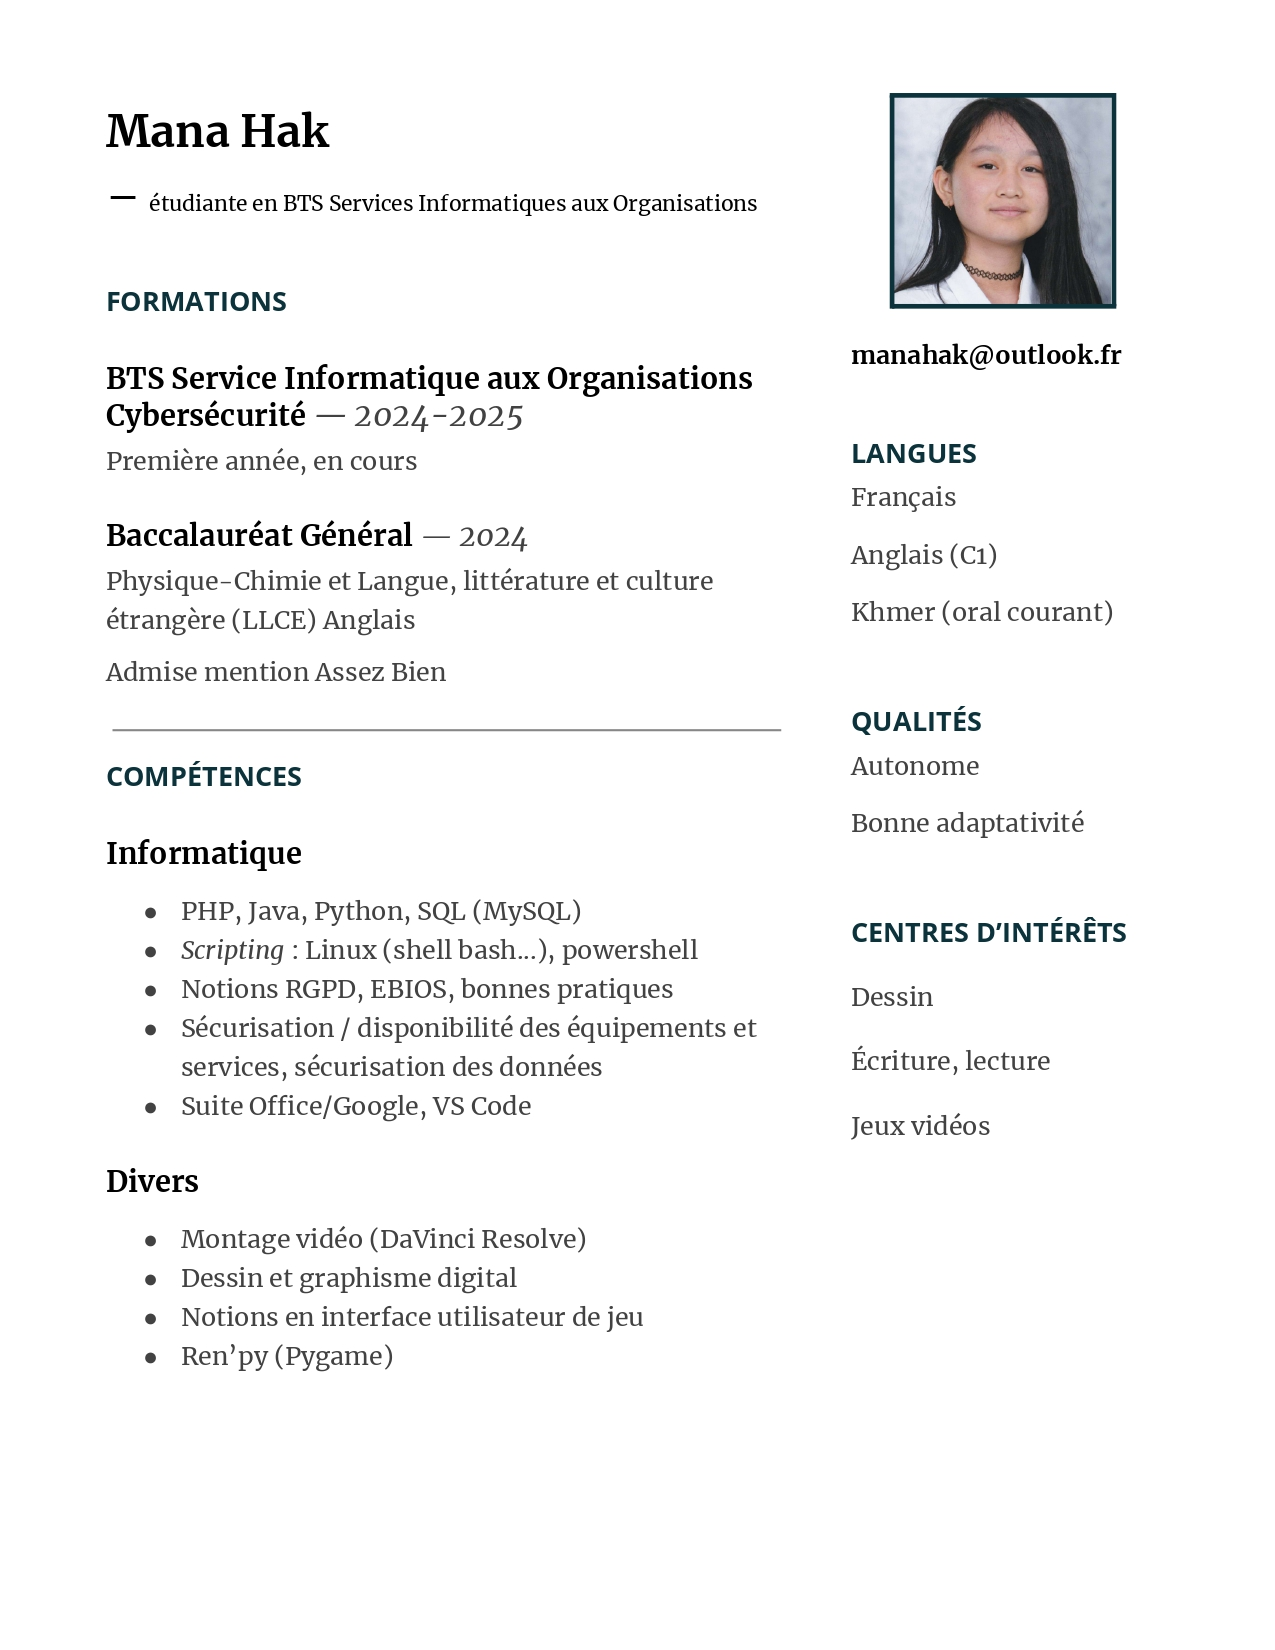
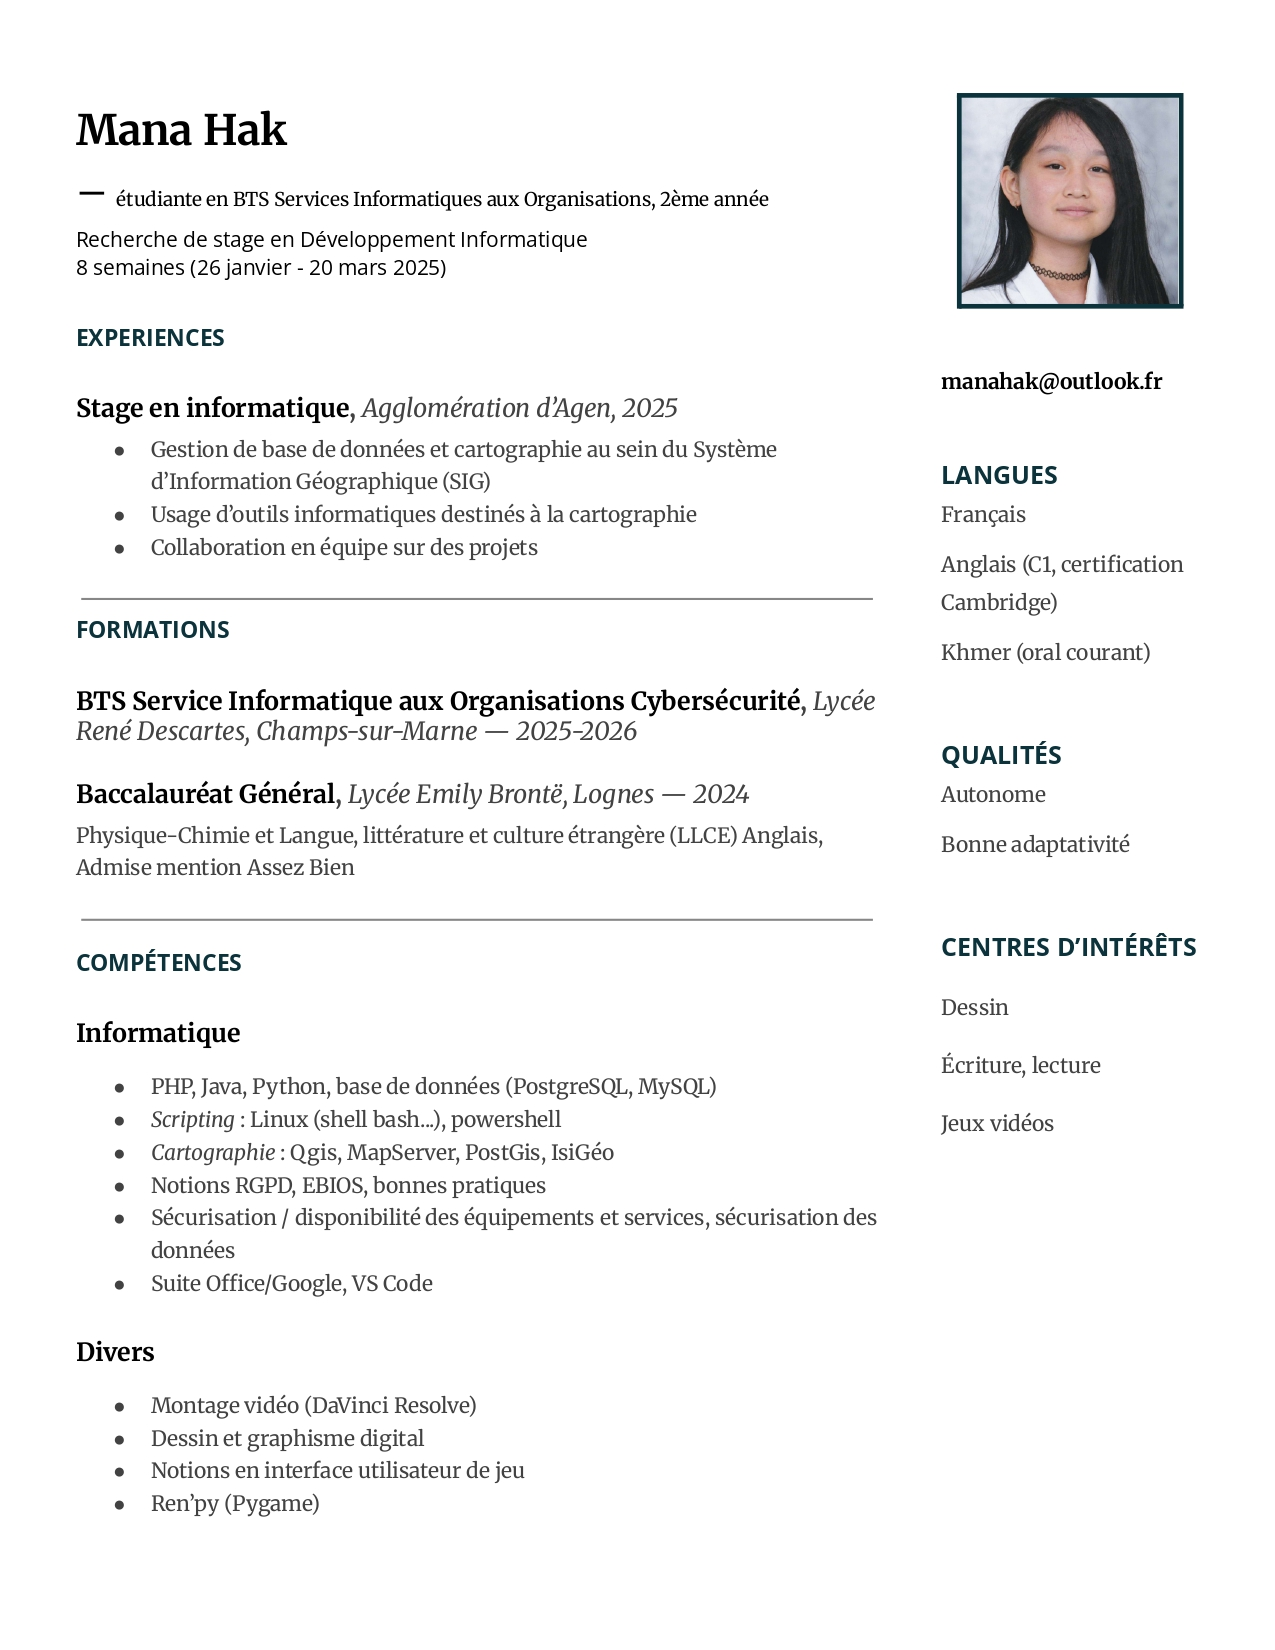
commit

diff --git a/index.html b/index.html
@@ -146,6 +146,17 @@
 		</table>
 	</center>
 
+  <center>
+	<table id="table1">
+		  <tr>
+			<th>
+				<p><img src="compet/excl.png" alt="cybersécurité" width="35"> Cybersécurité <br>(sensibilisation, notions RGPD, bonnes pratiques, sécurisation des applications, tests de failles...)</p>
+        <p><img src="compet/robot.png" alt="ia" width="35"> Usage de l'IA dans le développement<br>(débugging, aide à la documentation, aide à la conception...)</p>
+			</th>
+		  </tr>
+		</table>
+	</center>
+
             <div class="image-box-3">
                 <img src="compet/france.webp" alt="français">
                 <img src="compet/uk.png" alt="anglais">
@@ -201,6 +212,8 @@
             <section id="carte">
               <iframe src="https://www.google.com/maps/embed?pb=!1m18!1m12!1m3!1d2860.1937807196546!2d0.6136170760330828!3d44.203075171081345!2m3!1f0!2f0!3f0!3m2!1i1024!2i768!4f13.1!3m3!1m2!1s0x12abb32406d8cc9b%3A0xd9620364119bc974!2sMairie%20d&#39;Agen!5e0!3m2!1sfr!2sfr!4v1747922331116!5m2!1sfr!2sfr" style="border:0;" allowfullscreen="" loading="lazy" referrerpolicy="no-referrer-when-downgrade"></iframe>
             </section>
+
+            <p>(placeholder)</p>
         </ul>
         </details>
 
@@ -209,17 +222,7 @@
         <details class="collapsible">
         <summary>Stage de 2ème année</summary>
         <ul>
-            <p>J'ai effectué mon stage au sein du service informatique de la collectivité d'Agen, une structure intercommunale regroupant la ville d'Agen et une partie de son aire urbaine. L'agglomération est dirigée par un président élu, actuellement Jean Dionis du Séjour.</p>
-
-            <section id="carte">
-              <iframe src="https://www.google.com/maps/embed?pb=!1m18!1m12!1m3!1d2860.1937807196546!2d0.6136170760330828!3d44.203075171081345!2m3!1f0!2f0!3f0!3m2!1i1024!2i768!4f13.1!3m3!1m2!1s0x12abb32406d8cc9b%3A0xd9620364119bc974!2sMairie%20d&#39;Agen!5e0!3m2!1sfr!2sfr!4v1747922331116!5m2!1sfr!2sfr" style="border:0;" allowfullscreen="" loading="lazy" referrerpolicy="no-referrer-when-downgrade"></iframe>
-            </section>
-			
-			<section id="carte">
-				  <div id="map"></div>
-				  <button class ="button_map" style = "position : relative; left : -40%" onclick = "CreateMarker(44.20219901112438,0.613596432464637)">Géolocaliser le lieu de stage</button> </br>
-				   <button class ="button_map" style = "position : relative; left : -40%" onclick = "CreateMarker(48.84435810976229, 2.585499263256165);CalculDistance()">Calcul de distance</button> 
-				</section>		
+            <p>...</p>
 			
         </ul>
         </details>
@@ -331,8 +334,8 @@
     <div class="cv-content">
         <img src="cv.jpg" alt="cv" class="clickable-img">
         <div class="cv-links">
-        <p><a href="https://drive.google.com/file/d/1s9I2KgxF38ois4Hjwv6djj0rkOJ0WwDG/view?usp=sharing" target="_blank" download>Télécharger mon CV (FR / PDF)</a></p>
-        <p><a href="https://drive.google.com/file/d/1fukurp_TrZOGTnXpLsnYGu3NOQFQIq9c/view?usp=sharing" target="_blank" download>Download my CV (ENG / PDF)</a></p>
+        <p><a href="https://drive.google.com/file/d/1MKlKBiRjQ-7jK7t4a5UVzi6biWyKEuIi/view?usp=sharing" target="_blank" download>Télécharger mon CV (FR / PDF)</a></p>
+        <p><a href="https://drive.google.com/file/d/1HPSeZBnpR5lrtjPKZ8tkl9ocLdnThoAF/view?usp=sharing" target="_blank" download>Download my CV (ENG / PDF)</a></p>
         </div>
     </div>
     </section>
